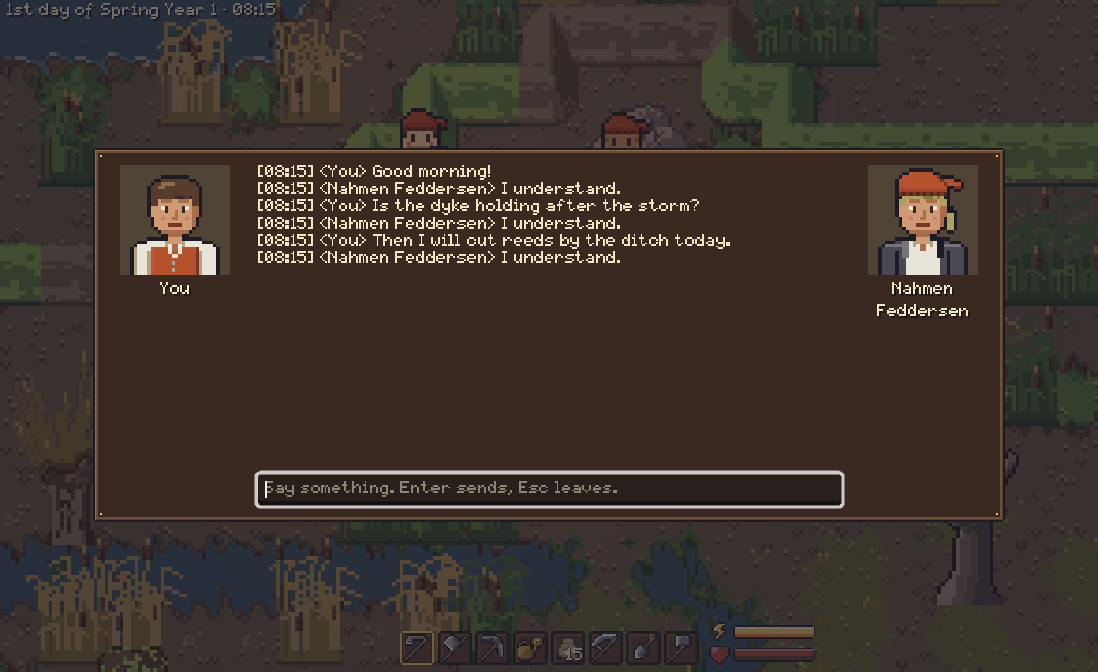
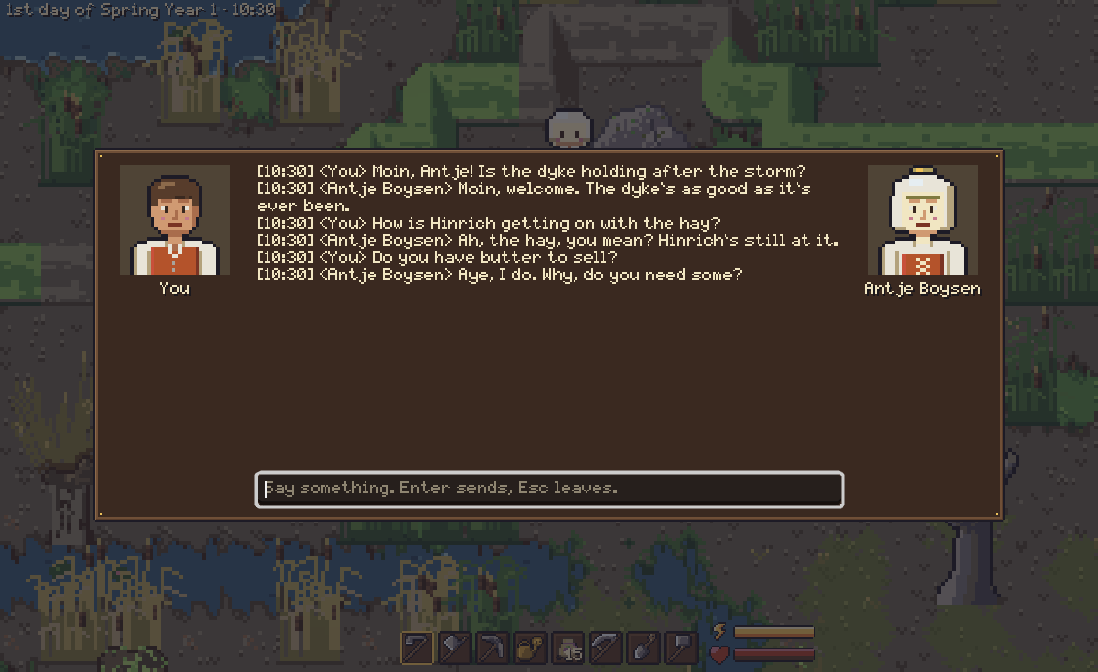
Docs: villagers who talk through a language model and remember
README: the villagers written by hand and how to spawn them, how to let
villagers talk through the test LLM (make llm-up, Settings → Language
model, the key in plain text), what the prompt tells the model, how to
screenshot a talk; the chat screenshot is now a real conversation with
Antje through qwen2.5:3b-instruct. SPEC's NPC section, docs/architecture.md,
tools/README.md and the Done note of TASKS.md 86 with replies we got.

diff --git a/README.md b/README.md
@@ -163,19 +163,30 @@ bodices, aprons, shawls and white coifs or headscarves, each with a skin, hair a
 of their own and a North Frisian or Low German name (Antje Boysen, Momme Ketels). They keep
 to within about six tiles of the house or campfire nearest to where they came, stand about
 and stroll by day and stand still at night; you walk through them, so they never shut you
-in. For now they come from the console (`spawn npc 3`); they are saved with the game.
+in. For now they come from the console; they are saved with the game.
+
+Each has an age, a trade, a personality, a background and habits of speech. Four are written
+by hand in [data/villagers.cfg](data/villagers.cfg) and come with `spawn npc <id>`: `antje`
+(Antje Boysen, a farmer's wife, whose husband Hinrich works their marsh farm), `momme` (Momme
+Ketels, a fisherman of the tidal creeks), `ocke` (Ocke Hansen, the miller) and `kerrin`
+(Kerrin Paulsen, the dyke reeve's widow, who lived through the Christmas flood of 1717).
+`spawn npc 3` makes villagers up, with a trade, family, worry and habit drawn from the tables
+of [data/npcs.cfg](data/npcs.cfg).
 
 Face a villager and press E to talk: the name over their head shows whom E speaks to. The
 chat shows your portrait and theirs, and between them a chat window with the game time,
 like `[08:15] <You> hello`. Type a line and press Enter; Escape leaves. The game stands still
-while you talk, and the chat keeps its last 200 lines for the next time. For now every
-villager answers "I understand."; their words will come from a language model later (see
-[docs/ideas/NPC.md](docs/ideas/NPC.md)). Their names and clothes are in
-[data/npcs.cfg](data/npcs.cfg).
+while you talk, and the chat keeps its last 200 lines for the next time. With a language
+model set under Settings → Language model (see
+[Talking NPCs](#talking-npcs-with-a-language-model)) villagers answer in their own words;
+without one they say short scripted lines ("Aye.", "Is that so?"). When you leave a chat,
+the villager remembers it in one line (the model sums it up, else it is what you said), and
+later talks build on it. While one villager is still answering you may leave and talk to
+another; the answer waits in the first one's chat.
 
 ![Villagers by the camp, the name of the one E would speak to over their head](docs/screenshots/npcs.png)
 
-![A chat with a villager: both portraits, and the lines with the game time](docs/screenshots/npc-chat.png)
+![A chat with Antje Boysen through the test LLM: both portraits, and the lines with the game time](docs/screenshots/npc-chat.png)
 
 ### Wildlife
 
@@ -361,7 +372,8 @@ chest and its contents go into your inventory (or you are told there is no room)
 
 You can rebind every key, including mouse buttons. You can also switch between fullscreen
 and windowed, scale the UI from 0.5× to 2× without touching the world view, and set the
-energy drain and the day length variation. Hover over a setting, a key or an item in the
+energy drain and the day length variation, and set the language model villagers talk
+through. Hover over a setting, a key or an item in the
 hotbar, inventory or equipment for a short explanation: an item's kind, weight, what food
 gives back, what seeds grow and where they are planted. The mouse wheel zooms smoothly
 from 0.5× to 2×.
@@ -384,7 +396,8 @@ arguments.
 | `god`, `nodrain`, `noweight`, `nocost` | Toggle invincibility, free actions, weight costing nothing, and buildings and crafting needing no materials. |
 | `weather`, `weather <condition>`, `weather auto` | Show the weather, force a condition, or go back to the simulation. |
 | `snow`, `snow <0..1>`, `snow auto` | Show the snow cover, force it, or go back to the weather. |
-| `spawn npc [count]` | Put villagers nearby, each with a look and a name of their own; they stay. |
+| `spawn npc [count]` | Put villagers nearby, each with a look, a name and a background of their own; they stay. |
+| `spawn npc <villager>` | Put a villager written by hand nearby: `antje`, `momme`, `ocke` or `kerrin`; each comes once. |
 | `spawn <animal> [count]` | Put animals nearby: farm animals that stay (`cow`, `sheep`, `chicken`, `rabbit`, `dog`, `cat`, `horse`) or wild ones that come and go (`bird`, `wild_rabbit`, `squirrel`, `deer`, `bee`, `butterfly`, `flock`, `stork`, `roof_stork` on the nearest roof, `geese` grazing, `flying_geese`, `mouse`, `frog`). `spawn` alone, or with an unknown name, lists them. |
 | `skip <n>m\|h\|d` | Let minutes, hours or days pass, e.g. `skip 2h` or `skip 3d`. |
 | `crop` | Show the growth, damage and needs of the nearest crop. |
@@ -440,14 +453,44 @@ different name, pass its path: `make GODOT=/path/to/godot run`.
 Saves go to `user://saves/world.json` and settings to `user://settings.cfg`. To start a
 fresh world, run `godot --path . -- --new-game`.
 
-### Talking NPCs, for testing
+### Talking NPCs with a language model
 
-The game does not need a language model. To try NPC talk against a real one, `make llm-up`
-runs Ollama with Qwen2.5 3B Instruct (1.9 GB, CPU only, Qwen Research License: for testing
-only) in a podman or docker container on `http://127.0.0.1:11434/v1`; `make llm-check` asks it
-one question and `make llm-down` stops it. The container image (5.5 GB) and the model live in
+The game does not need a language model: without one, villagers say short scripted lines.
+To hear them talk, give it an OpenAI-compatible chat endpoint under Settings → Language
+model: the endpoint (e.g. `http://127.0.0.1:11434/v1`), the model and, for a hosted model,
+a key. The key is stored as plain text in `settings.cfg` (never in the save, never logged);
+what you say to villagers goes to that endpoint. Ollama, LM Studio and llama.cpp's server
+work; Claude's own API would need an adapter of its own.
+
+For testing, `make llm-up` runs Ollama with Qwen2.5 3B Instruct (1.9 GB, Qwen Research
+License: for testing only) in a podman or docker container on `http://127.0.0.1:11434/v1`,
+which is the endpoint to enter (the model is the default); `make llm-check` asks it one
+question and `make llm-down` stops it. The container image (5.5 GB) and the model live in
 the container tool's storage and the volume `sandbox-game-llm-models`; `make llm-down PURGE=1`
-deletes the model. Details in [tools/README.md](tools/README.md).
+deletes the model. Details in [tools/README.md](tools/README.md). A reply takes a second or
+two on the GPU, about five seconds on the CPU; one that takes longer than 30 seconds, or
+fails, becomes a scripted line.
+
+What the model is told for each reply (the words are in [data/npc_talk.cfg](data/npc_talk.cfg),
+shaped like a prompt that worked well with the test model): a system line (1750 on the North
+Frisian coast, one or two sentences of small talk, never break character), one example
+exchange, the earlier lines of this conversation, and then who the villager is (name, trade,
+age, their look in words, personality, background, habits, and what they remember of earlier
+talks), the moment (the date as the clock shows it and how far into the season, the time and
+part of the day by the sun, the weather as it is: rain, snow, fog or the sky, the temperature,
+frost, the wind and where it blows from; and the house or fire they stand by), that you are a
+newcomer whose name they don't know, and what you said. Only the reply and the memory lines
+are kept; nothing else in the game changes by what the model says.
+
+To screenshot a talk, put the endpoint in `build/settings.cfg` (`[language_model]`, then
+`endpoint="http://127.0.0.1:11434/v1"`) and run
+
+```
+make screenshot SCREENSHOT_TIMEOUT=120 ARGS="--villager=antje '--chat=Moin, Antje!;Do you have butter?'"
+```
+
+`SANDBOX_LLM_URL=http://127.0.0.1:11434/v1 make test` also runs the tests that ask the real
+model.
 
 ### For developers
 

diff --git a/SPEC.md b/SPEC.md
@@ -863,7 +863,8 @@ console (`spawn cow 3`, near the player). Unlike the wildlife they are state and
 
 Decided 2026-11-06 (task 84, QUESTIONS.md 22): the first step towards the people of
 [docs/ideas/NPC.md](docs/ideas/NPC.md). For now villagers are put in the world with the
-console (`spawn npc [count]`, near the player); they are state and saved.
+console (`spawn npc [count]` or `spawn npc <id>`, near the player); they are state and saved.
+Task 86 (2026-11-06) added who they are, words from a language model and memory.
 
 - **Who:** each villager draws a sex, a name and a look from a seed. Names are period North
   Frisian and Low German first names by sex (Hinrich, Jens, Boy, Momme, Ocke, Tete; Antje,
@@ -873,6 +874,14 @@ console (`spawn npc [count]`, near the player); they are state and saved.
   waistcoat, knee breeches, sometimes a jacket, a knitted cap, straw or felt hat; women: a
   laced bodice over the chemise, a long skirt, often an apron or a shawl, a white coif or a
   headscarf), all in existing palette colours. The lists are in `data/npcs.cfg`.
+- **Who they are:** every villager has an age, a trade, a personality, a background (family and
+  story) and habits (of speech), told to the language model. Four are written by hand in
+  `data/villagers.cfg` with a fixed look, spawned by id and once each: `antje` (Antje Boysen, a
+  farmer's wife, married to Hinrich: the user's prompt example), `momme` (Momme Ketels, a
+  fisherman), `ocke` (Ocke Hansen, the miller) and `kerrin` (Kerrin Paulsen, the dyke reeve's
+  widow). The others draw them from tables in `data/npcs.cfg` along with their name: an age of
+  18 to 70, a trade and a family by sex (the spouse a first name of the other sex), a
+  personality, a worry and a habit.
 - **Where:** each keeps near its anchor: the yard in front of the door of the nearest
   building or the nearest fireplace within 16 tiles of where it came, else that spot. It
   never walks further than 6 tiles from it (one outside the circle only walks back in).
@@ -889,13 +898,44 @@ console (`spawn npc [count]`, near the player); they are state and saved.
   `[08:15] <You> hello` with the game time, scrollback, a one-line input. Enter sends; while
   the answer is awaited the villager is shown typing; Escape leaves (and doesn't open the
   pause menu). The villager turns to the player and stands a while.
-- **Answers:** one function, `NpcDialogue.reply(npc, history, message)`, awaited by the chat,
-  so a slow language model fits later (tasks 85 and 86). For now it always answers
-  "I understand." after half a second.
-- **Saved:** name, sex, look, position, anchor and the chat, its last 200 lines (save
-  version 17); what a villager is doing is not.
-- **Later:** homes, schedules, trades, intentions and memory, and words from an LLM (see the
-  ideas doc).
+- **Answers:** one function, `NpcDialogue.reply`, awaited by the chat. With a language model
+  set in Settings (an OpenAI-compatible chat endpoint, a model, an optional key; no endpoint,
+  the default, is none) it asks the model; without one, on an error or after 30 s it says a
+  scripted line of `data/npc_talk.cfg` ("Aye.", "Is that so?"). The answer is trimmed to the
+  spoken line: no quotes or name in front, its first line, at most two sentences. Only the
+  words come from the model; nothing else in the game changes by what it says.
+- **The prompt** (`data/npc_talk.cfg`, the user's working example of 2026-11-06 in shape;
+  temperature 0.7, at most 60 tokens): a system line (dialogue for villagers on the North
+  Frisian coast in 1750, one or two short sentences of small talk in the neighbour's language,
+  never break character or act as an assistant), the example exchange ("Villager: Antje
+  Boysen, a farmer's wife. / Her neighbour says: "Fine weather for the hay today." / Antje's
+  reply:" and her answer), the last 8 lines of this conversation as turns of the same shape,
+  and last what the player says, with who the villager is (age, look in words from the
+  layers, personality, background, habits, memories), the moment (the date as the clock shows
+  it and early, mid or late in the season; the time and part of the day by the sun: dawn,
+  morning, noon, afternoon, dusk, night; the weather as it is: thunder, storm, snow, rain or
+  fog by strength, else the sky by its clouds, the temperature, frost below 0 °C, the wind by
+  strength and where it blows from; the building or fire within 8 tiles) and that the player
+  is a newcomer whose name they don't know.
+- **The wait:** belongs to the villager: while one answers, the player can leave and talk to
+  another (who shows no typing); the answer lands in the chat of the one asked.
+- **Memory:** when a chat is closed after new lines (or once an owed answer comes), the
+  villager remembers the conversation in one dated line ("On the 12th day of Spring, year 1
+  (mid spring): ..."): summed up by the model with a small prompt of its own, else the start
+  of what the player said. A villager keeps 10; beyond that the oldest two merge into one
+  (its last 400 characters). Later prompts tell the memories, and only the lines since the
+  last memory as earlier turns.
+- **Settings:** the endpoint, the model (default `qwen2.5:3b-instruct`, the test LLM's) and
+  the key are in the settings file; the key is plain text there, as the Settings page says,
+  never in the save, and the client follows no redirect, so the key goes only to that endpoint. Claude's own API needs an adapter of its own (later).
+- **Saved:** name, sex, look, who they are (id, age, trade, personality, background, habits;
+  save version 19), the chat, its last 200 lines (version 17), the memories and how many of
+  the last lines are not remembered yet (version 20), so a conversation saved before it was
+  summed up is remembered at the next close; what a villager is doing, and an answer still
+  owed, are not. A version 18 villager is given a background from the tables, the same for
+  the same name.
+- **Later:** homes, schedules, intentions, suggestions from the model, NPC to NPC talk (see
+  the ideas doc).
 
 ### Combat
 

diff --git a/docs/architecture.md b/docs/architecture.md
@@ -88,14 +88,25 @@ Warft and an Ewer here and there.
   with `WildlifeView.nearest_animal` (a stork its frogs, `Frog`; a cat will find the `Mouse`),
   asked when it picks what to do next, not every frame.
 - **Npcs** (`game/state/npcs.gd`) holds the villagers (`Npc`: name, sex, look as an
-  `Appearance`, position, anchor and chat history) and moves them like the livestock: GameState
-  owns it, Main calls its `update` every frame while the player is outside, and the numbers,
-  names and clothes are `data/npcs.cfg` (`NpcRules`). Each is drawn by an `NpcView` among the
-  world view's entities, with the player's sheets and frames. E speaks to the villager
+  `Appearance`, who they are (age, trade, personality, background, habits), position, anchor,
+  chat history and memories) and moves them like the livestock: GameState owns it, Main calls
+  its `update` every frame while the player is outside, and the numbers, names, clothes and
+  background tables are `data/npcs.cfg` (`NpcRules`); the villagers written by hand, spawned by
+  id, are `data/villagers.cfg` (`VillagerRules`). Each is drawn by an `NpcView` among the world
+  view's entities, with the player's sheets and frames. E speaks to the villager
   `Interaction.npc_to_chat` names, before any chest, station or bed; `ChatScreen` shows the
   chat with both portraits (`Appearance.portrait_layers`) and pauses the game while it is open.
-  What a villager answers comes from one place, `NpcDialogue.reply`, which the chat awaits, so
-  a language model that answers over the network fits there later.
+- **What villagers say** comes from one place, `NpcDialogue.reply` (`game/scenes/`, a node, as
+  it talks to the network), which the chat awaits; the wait is the villager's
+  (`Npc.is_answering`). With a language model set in Settings it asks `OpenAiChat` (one POST to
+  an OpenAI-compatible `/chat/completions`, running while the game is paused, with a time-out
+  and no redirects, so a key goes nowhere else;
+  tests put `FakeChat` in its place), else, or when that fails, it says a scripted line. The
+  request is built by `NpcPrompt` (`game/state/`): pure functions of the villager, the chat,
+  the moment (`NpcMoment`: clock, sun, weather and place, taken from GameState) and the words
+  of `data/npc_talk.cfg` (`NpcTalkRules`), so they are tested without a model. When a chat is
+  closed, `NpcDialogue.remember` sums the conversation up in a memory line of the villager.
+  Only the reply and memory text come from the model; it changes nothing else.
 - **Crafting** (`game/state/crafting.gd`) is what the crafting menu does: it checks a recipe of
   `RecipeRules` (materials, the skill level it needs), crafts it and practises its skill on the
   player's **Skills** (`skills.gd`: points per skill, the total cap and the skills that fade,
@@ -167,7 +178,9 @@ Things marked
 The default key bindings are the input map in `project.godot` (in the Godot editor: Project
 Settings → Input Map). The player changes them under Settings → Controls; `GameSettings`
 applies them to Godot's `InputMap` and stores only the differences from the defaults in
-`user://settings.cfg`.
+`user://settings.cfg`. The same file keeps the display, game and audio settings and the
+language model's endpoint, model and key (`GameSettings.language_model`; the key in plain
+text, never in the save).
 
 ## Tests
 

diff --git a/TASKS.md b/TASKS.md
@@ -811,7 +811,7 @@ tools/README.md).
 
 ## 86. NPC replies from the LLM, with compacted memory per NPC
 
-- [ ] Done
+- [x] Done
 
 The user's word of 2026-11-06. Needs tasks 84 and 85. `NpcDialogue.reply` asks the
 configured OpenAI-compatible endpoint (endpoint, model, optional key in Settings; "none"
@@ -855,6 +855,33 @@ From the review of task 84: the "awaiting an answer" state must belong to the vi
 the chat screen (closing A's chat while it answers and opening B's must not show B typing
 or block B), and `reply` needs a time-out and an error path that return a fallback line, so
 the typing line never sticks.
+
+Added by the user while it was built: the moment in the prompt is concrete, from the game's
+state: the date as the HUD shows it and how far into the season, the clock time and the part
+of the day, and the weather as it is (condition, °C, wind, frost), wording in the data file.
+
+Done: `data/villagers.cfg` (`VillagerRules`, checked at start) has Antje Boysen, Momme Ketels
+(fisherman), Ocke Hansen (miller) and Kerrin Paulsen (the dyke reeve's widow); `spawn npc
+<id>` puts one near the player, once, and the ids are in the spawn list and Tab completion;
+the debug flag `--villager=<id>` does it for screenshots. Made-up villagers draw an age, trade,
+family, personality, worry and habit from new tables in `data/npcs.cfg`. `NpcPrompt` builds the
+request from `data/npc_talk.cfg` (`NpcTalkRules`) in the user's shape: system line, the Antje
+example, the last 8 lines of this conversation, then the villager line, who they are (look in
+words from the layers), their memories, the moment (`NpcMoment`: "the 12th day of Spring,
+year 1 (mid spring), 08:15 in the morning", "light rain, 9 °C, a fresh west wind", "outside
+the kate"), that the player is a newcomer whose name they don't know (else the model named the
+player "Jakob"), and what the player said. `OpenAiChat` (an HTTPRequest that runs while
+paused, 30 s time-out) asks the endpoint of Settings → Language model (endpoint, model, key;
+the key plain text in settings.cfg); `NpcDialogue` (moved to game/scenes) trims the answer
+(quotes, name prefix, first line, two sentences) or says a scripted line. `Npc.is_answering`
+holds the wait. On closing a chat `NpcDialogue.remember` sums it up in a dated memory line (by
+the model, else the start of what the player said), 10 kept, the oldest two merged. Save
+versions 19 (who they are) and 20 (memories), after task 61's 18. Tests use `FakeChat`; two tests ask the real
+model when `SANDBOX_LLM_URL` is set. Replies from qwen2.5:3b-instruct: Antje, asked whether
+the dyke holds: "Moin, welcome. The dyke's as good as it's ever been."; about butter: "Aye, I
+do. Why, do you need some?"; Kerrin in a storm at dusk: "The dyke will hold, the Lord is
+watching over us. But we must be ever vigilant." Not done: an adapter for Claude's own API,
+streaming, suggestions from the model (docs/ideas/NPC.md 6.3).
 
 ## 87. Willows that stand out from the grass
 

diff --git a/tools/README.md b/tools/README.md
@@ -129,7 +129,10 @@ of a generated sound, point the event's `files` in `data/sounds.cfg` at the reco
 `CONTAINER=docker` forces one) with Qwen2.5 3B Instruct, on the NVIDIA GPU when the host
 exposes it to containers (see below), else on the CPU. It serves an
 OpenAI-compatible API at `http://127.0.0.1:11434/v1` (this machine only). The game never
-needs it: `make test` does not touch it.
+needs it: `make test` does not touch it, unless `SANDBOX_LLM_URL=http://127.0.0.1:11434/v1`
+is set, which runs the two tests that ask a real model. Villagers talk through it once that
+endpoint is entered under Settings → Language model (README, "Talking NPCs with a language
+model").
 
 ```sh
 make llm-up       # start the container, pull the model if missing; safe to repeat
